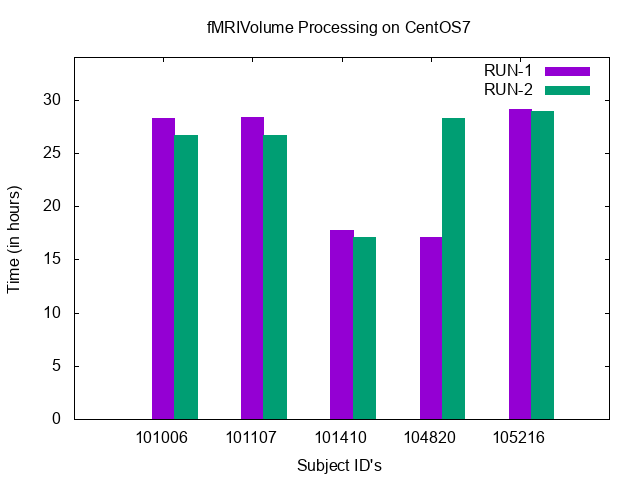
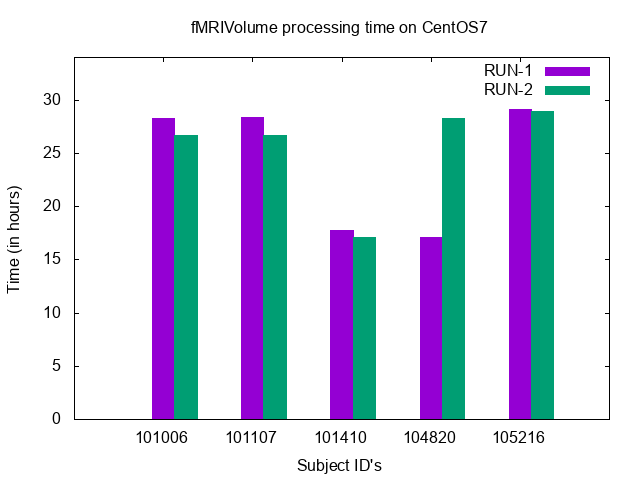
Updated chapter 4

Changed region(s): [[0.2812, 0.0312, 0.75, 0.0938]]

diff --git a/chapters/chapter4/chapter4.tex b/chapters/chapter4/chapter4.tex
@@ -184,11 +184,11 @@ The data was acquired from Human Connectome Project\footnote{\url{https://db.hum
 \end{center}
 
 \section{Processing}
-The data was processed in the order PreFreeSurfer, FreeSurfer, PostFreeSurfer and fMRIVolume.
-Two runs were made on CentOS6 and CentOS7. Tables \ref{tab:prefreesurfer_processing_centos7} and \ref{tab:prefreesurfer_processing_centos6} shows the details about processing subjects on CentOS7 and CentOS6 respectively.
-
+The data was processed in the order PreFreeSurfer, FreeSurfer, PostFreeSurfer and fMRIVolume. Two runs were made on CentOS6 and CentOS7 using the five subjects listed in Table ~\ref{tab:hcp_subject_size}.
 \subsection{PreFreeSurfer}
-
+Figures \ref{fig:prefreesurfer_run} and \ref{fig:prefreesurfer_file_size} shows the details about processing time and file-size on CentOS6 and CentOS7 respectively.
+Average time taken for PreFreeSurfer processing is 73.7 minutes (10 runs) and average output file size of PreFreeSurfer processing is 13.08 GB (5 subjects) on CentOS6.
+Average time taken for PreFreeSurfer processing is 80.2 minutes (10 runs) and average output file size of PreFreeSurfer processing is 13.10 GB (5 subjects) on CentOS7.
 \begin{center}
 \includegraphics[width=.5\linewidth]{prefreesurfer_run_CentOS6.png}%
 \includegraphics[width=.5\linewidth]{prefreesurfer_run_CentOS7.png}
@@ -203,14 +203,17 @@ Two runs were made on CentOS6 and CentOS7. Tables \ref{tab:prefreesurfer_process
 \label{fig:prefreesurfer_file_size}
 \end{center}
 
-%Prefreesurfer average timings to be calculated
 
 \subsection{FreeSurfer}
+Figures \ref{fig:freesurfer_run} and \ref{fig:freesurfer_file_size} shows the details about processing time and file-size on CentOS6 and CentOS7 respectively.
+Average time taken for FreeSurfer processing is 7.4 hours (10 runs) and average output file size of FreeSurfer processing is 15.2 GB (5 subjects) on CentOS6.
+Average time taken for FreeSurfer processing is 7.58 hours (10 runs) and average output file size of FreeSurfer processing is 15.2 GB (5 subjects) on CentOS7.
 
 \begin{center}
 \includegraphics[width=.5\linewidth]{freesurfer_run_CentOS6.png}%
 \includegraphics[width=.5\linewidth]{freesurfer_run_CentOS7.png}
 \captionof{figure}{FreeSurfer processing time on (i) CentOS6 (left) (ii)CentOS7 (right)}
+\label{fig:freesurfer_run}
 \end{center}
 
 \begin{center}
@@ -221,7 +224,9 @@ Two runs were made on CentOS6 and CentOS7. Tables \ref{tab:prefreesurfer_process
 \end{center}
 
 \subsection{PostFreeSurfer}
-
+Figures \ref{fig:postfreesurfer_run} and \ref{fig:postfreesurfer_file_size} shows the details about processing time and file-size on CentOS6 and CentOS7 respectively.
+Average time taken for FreeSurfer processing is 22.5 minutes (10 runs) and average output file size of FreeSurfer processing is 16.2 GB (5 subjects) on CentOS6.
+Average time taken for FreeSurfer processing is 28.3 minutes (10 runs) and average output file size of FreeSurfer processing is 16.2 GB (5 subjects) on CentOS7.
 \begin{center}
 \includegraphics[width=.5\linewidth]{postfreesurfer_run_CentOS6.png}%
 \includegraphics[width=.5\linewidth]{postfreesurfer_run_CentOS7.png}
@@ -237,6 +242,9 @@ Two runs were made on CentOS6 and CentOS7. Tables \ref{tab:prefreesurfer_process
 \end{center}
 
 \subsection{fMRIVolume}
+Figures \ref{fig:fmri_run} and \ref{fig:fmri_file_size} shows the details about processing time and file-size on CentOS6 and CentOS7 respectively.
+Average time taken for FreeSurfer processing is 24.68 hours (10 runs) and average output file size of FreeSurfer processing is 221.2 GB (10 subjects) on CentOS6.
+Average time taken for FreeSurfer processing is 24.76 hours (10 runs) and average output file size of FreeSurfer processing is 220.8 GB (10 subjects) on CentOS7.
 
 \begin{center}
 \includegraphics[width=.5\linewidth]{fmri_run_CentOS6.png}%
@@ -251,7 +259,6 @@ Two runs were made on CentOS6 and CentOS7. Tables \ref{tab:prefreesurfer_process
 \captionof{figure}{fMRIVolume processing file-size on (i) CentOS6 (left) (ii) CentOS7 (right)}
 \label{fig:fmri_file_size}
 \end{center}
-%Add average time of all the processes
 
 \subsection{HCP Docker images}
 We conducted our study across Docker containers created out of CentOS 5.11, CentOS 6.8 and CentOS 7.2.1511. CentOS\footnote{\url{https://en.wikipedia.org/wiki/CentOS}} (Community Enterprise Operating System) according to~\cite{CentOS}, is a widely used operating system among the neuroscience community. CentOS operating system is widely known for the community support, network functions, safety, portability and openness~\cite{5665431}. All these qualities make CentOS a popular choice among the research community and high performance computing clusters.
